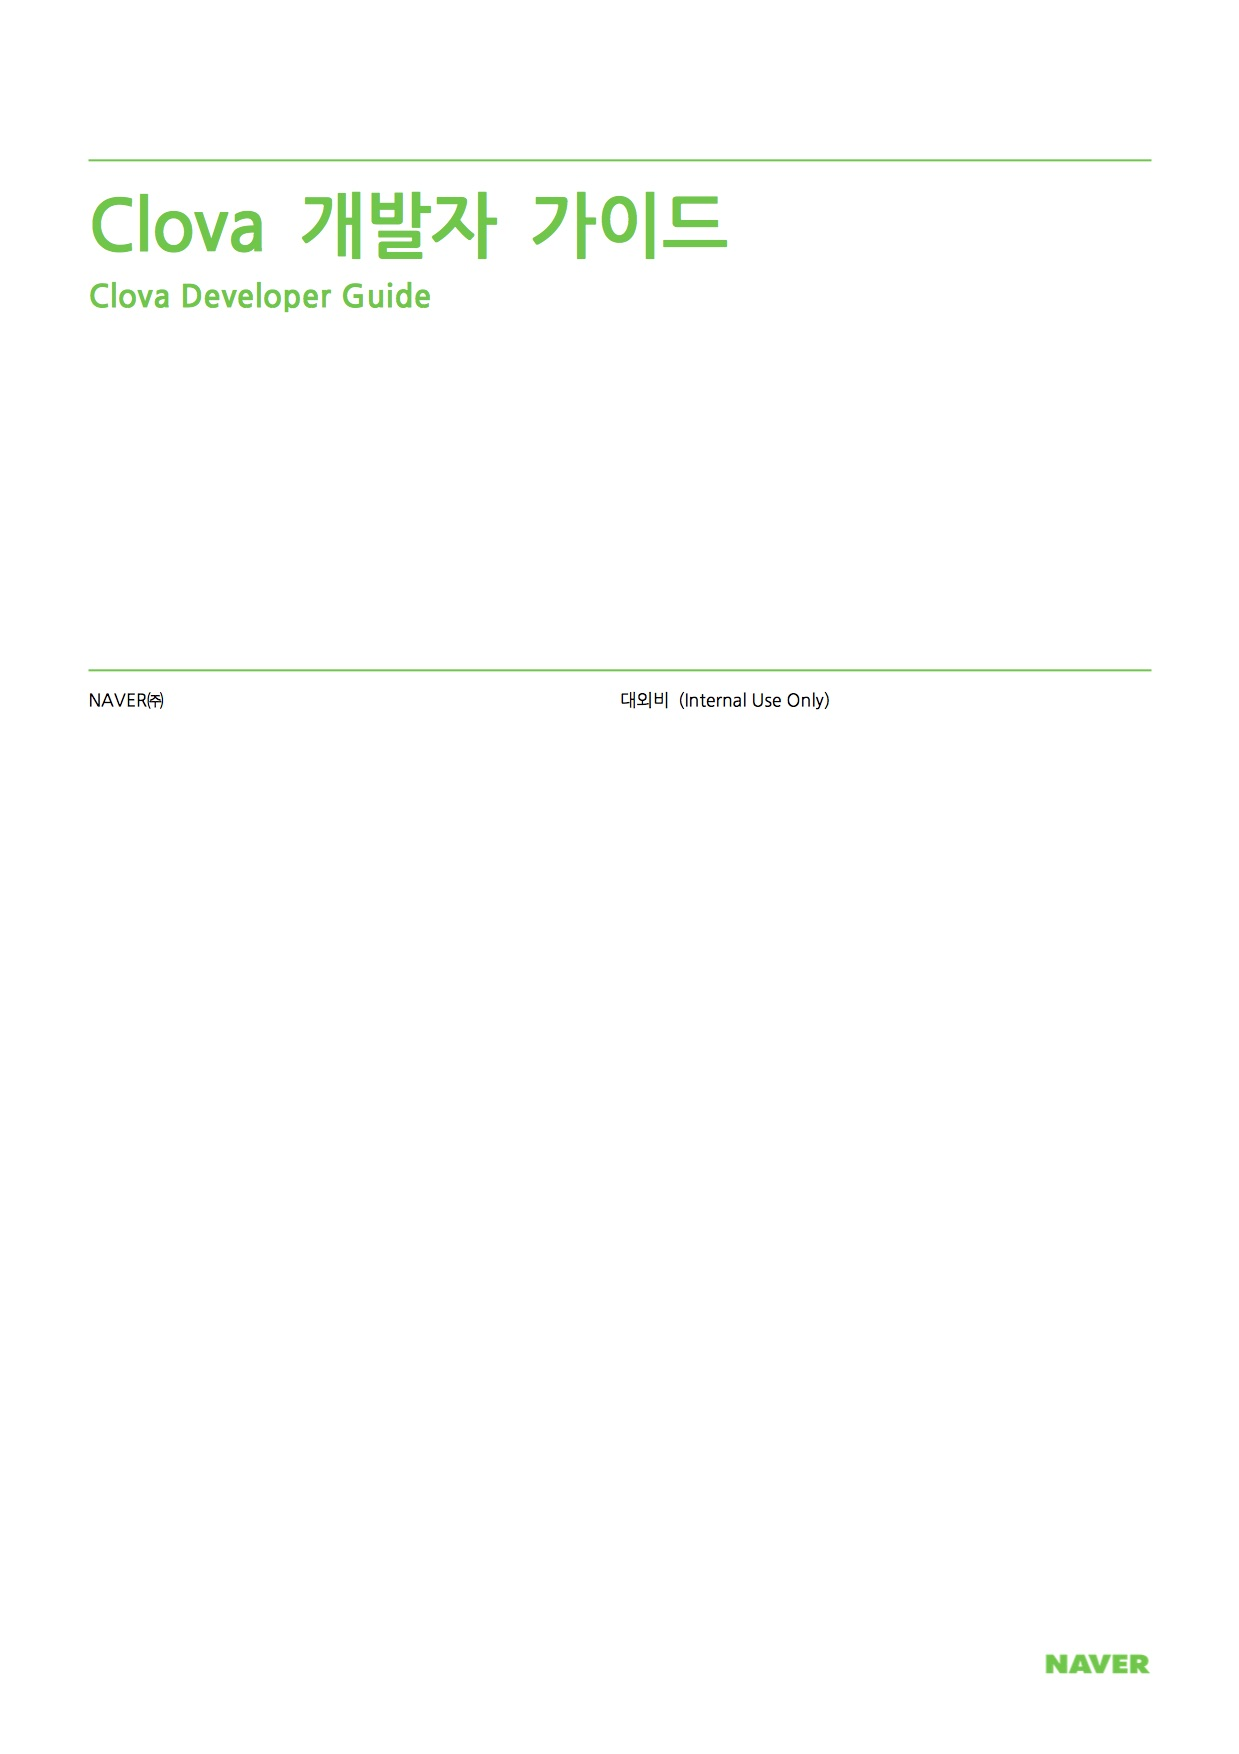
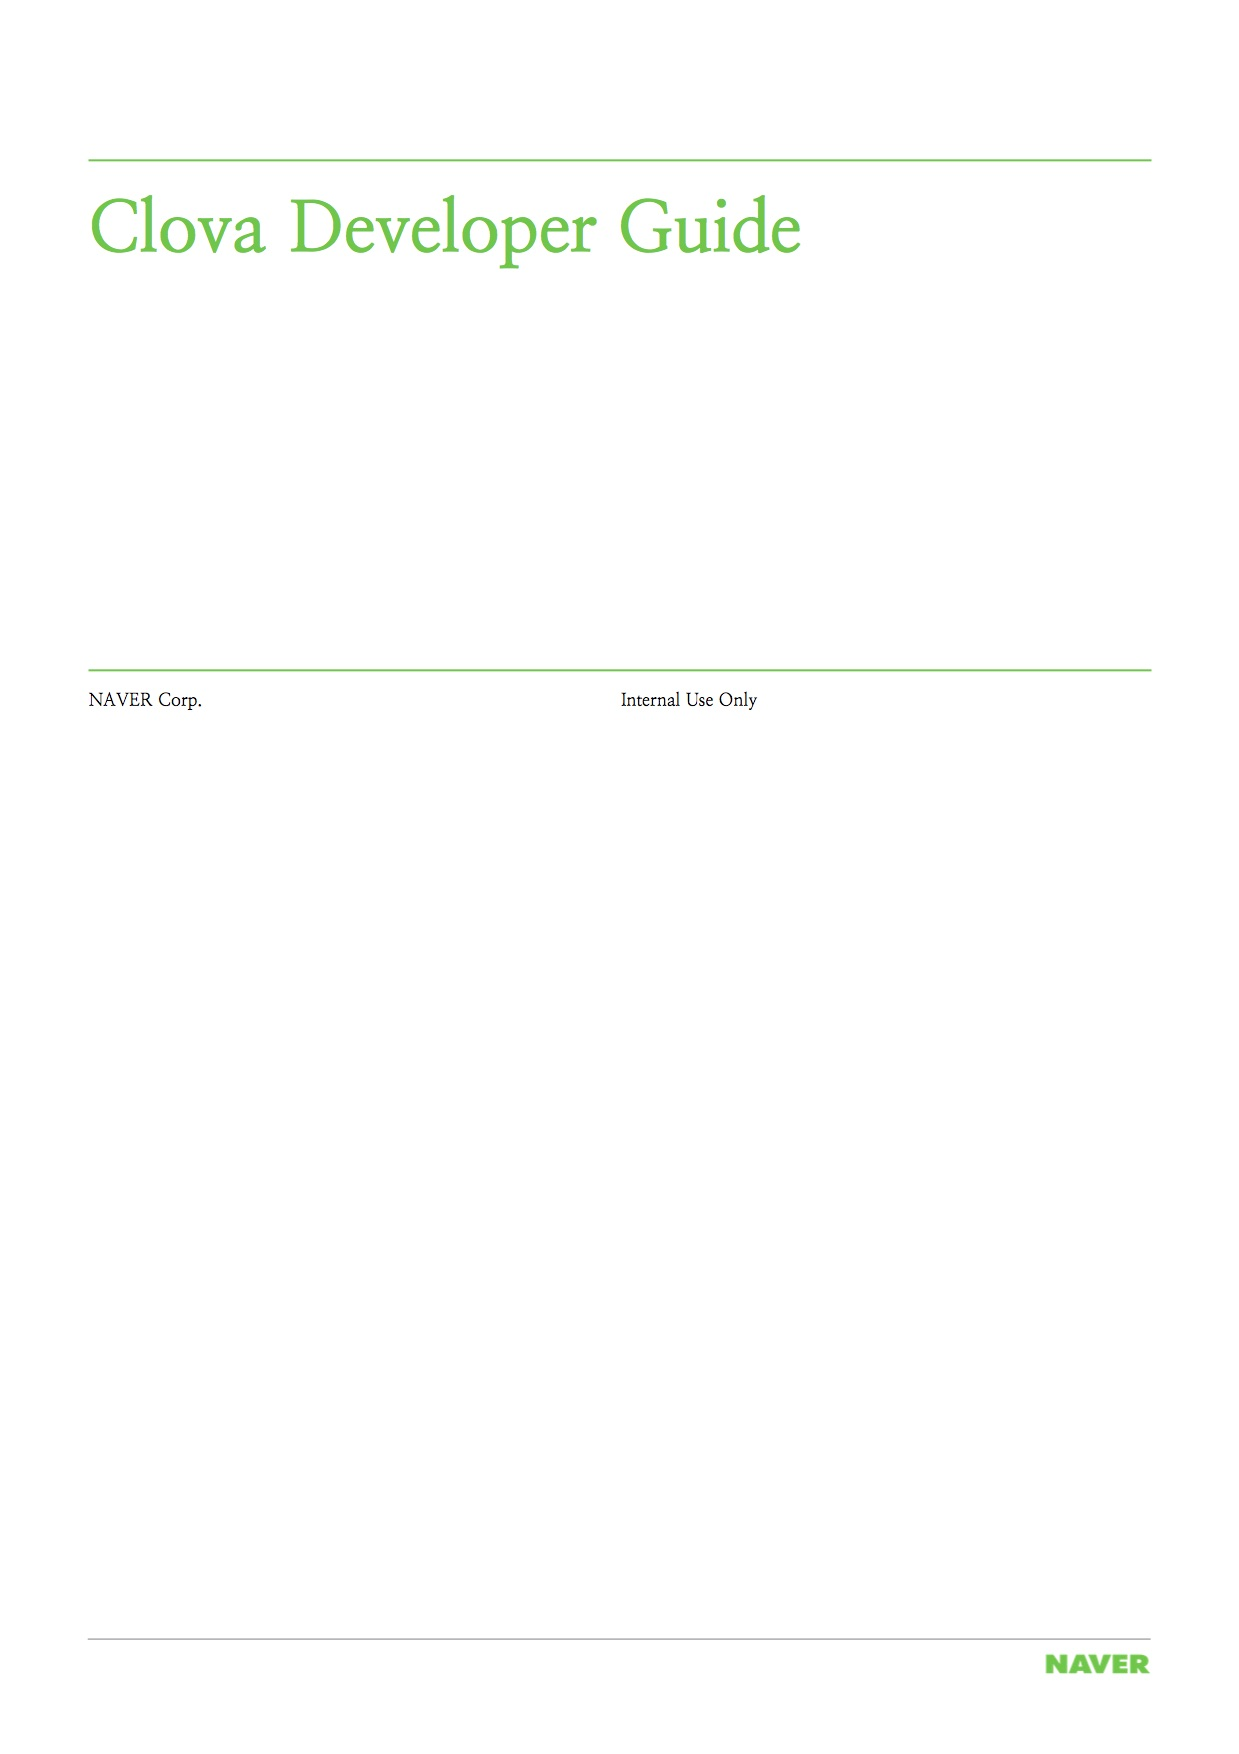
Correct broken link and add cover for en version. (#34)
* Add cover.jpg file

* Correct broken link

Changed region(s): [[0.0613, 0.0924, 0.6441, 0.1847], [0.5214, 0.3694, 0.5521, 0.4002], [0.092, 0.3694, 0.1227, 0.4002]]

diff --git a/ko/CIC/Guides/InteractWithCIC/Handle_Directive.md b/ko/CIC/Guides/InteractWithCIC/Handle_Directive.md
@@ -11,7 +11,7 @@
 <ol>
 <li><p>특정 이벤트 메시지의 응답이나 Downchannel을 통해 전달받는 지시 메시지를 미리 정해둔 <a href="#ManageMessageQ">메시지 큐</a>에 저장합니다.</p>
 </li>
-<li><p>수신된 <a href="/CIC/References/CIC_Message_Format.html#Directive">지시 메시지</a>의 메시지 헤더를 분석(parsing)합니다. 일반적으로 <em>dialogRequestId</em>는 사용자 요청, <em>namespace</em>와 <em>name</em>은 <a href="/CIC/Reference/CIC_API.html">API</a>를 구분하는데 사용합니다. 다음은 수신된 지시 메시지의 예입니다.</p>
+<li><p>수신된 <a href="/CIC/References/CIC_Message_Format.html#Directive">지시 메시지</a>의 메시지 헤더를 분석(parsing)합니다. 일반적으로 <em>dialogRequestId</em>는 사용자 요청, <em>namespace</em>와 <em>name</em>은 <a href="/CIC/References/CIC_API.html">API</a>를 구분하는데 사용합니다. 다음은 수신된 지시 메시지의 예입니다.</p>
 <pre><code>{
   "directive": {
     "header": {
